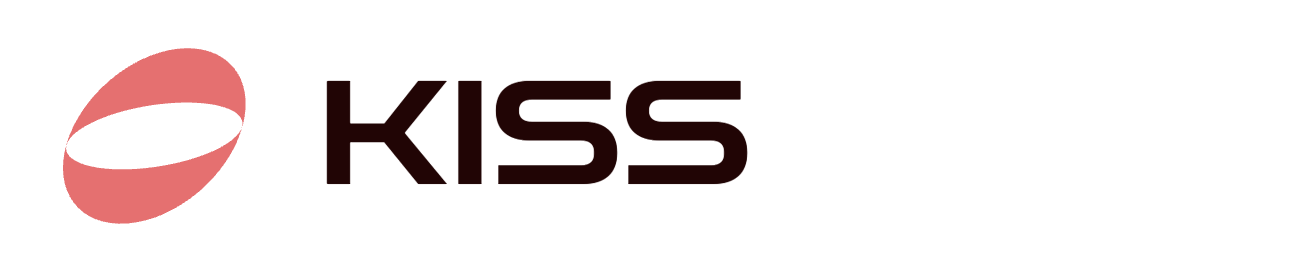
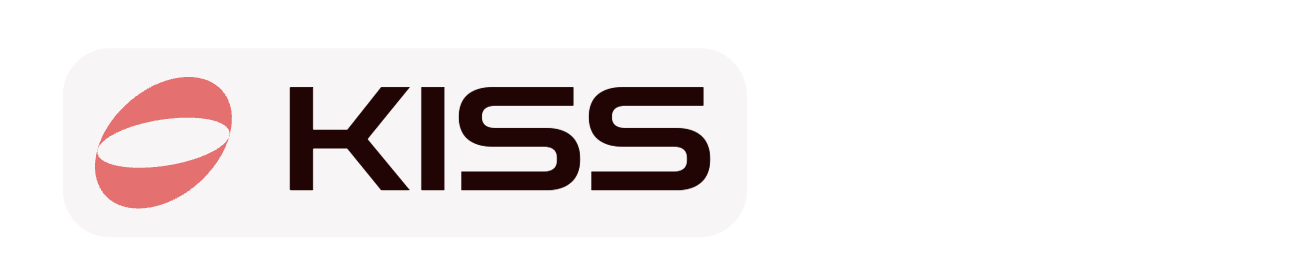
Update README.md

Changed region(s): [[0.0306, 0.1765, 0.5815, 0.7059], [0.0306, 0.5, 0.1836, 0.8235]]

diff --git a/README.md b/README.md
@@ -1,7 +1,5 @@
 <picture>
-  <source media="(prefers-color-scheme: dark)" srcset="./assets/github_banner@dark.png">
-  <source media="(prefers-color-scheme: light)" srcset="./assets/github_banner@light.png">
-  <img alt="Logo" src="./assets/github_banner@dark.png">
+  <img alt="Logo" src="./assets/github_banner@light.png">
 </picture>
 
 <br/>
